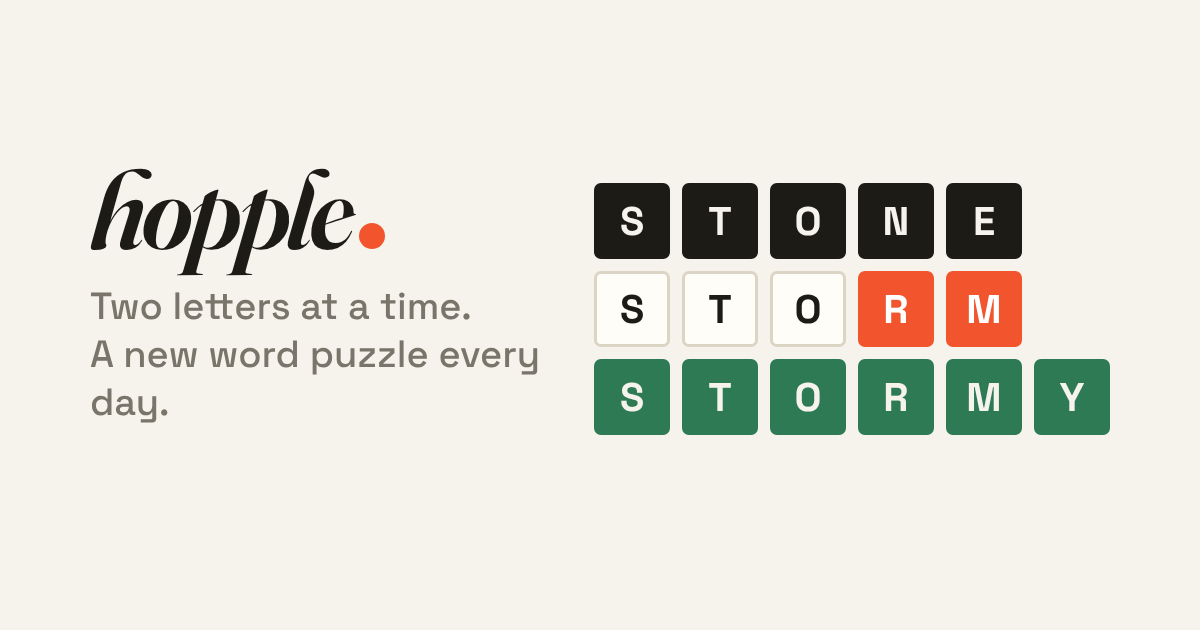
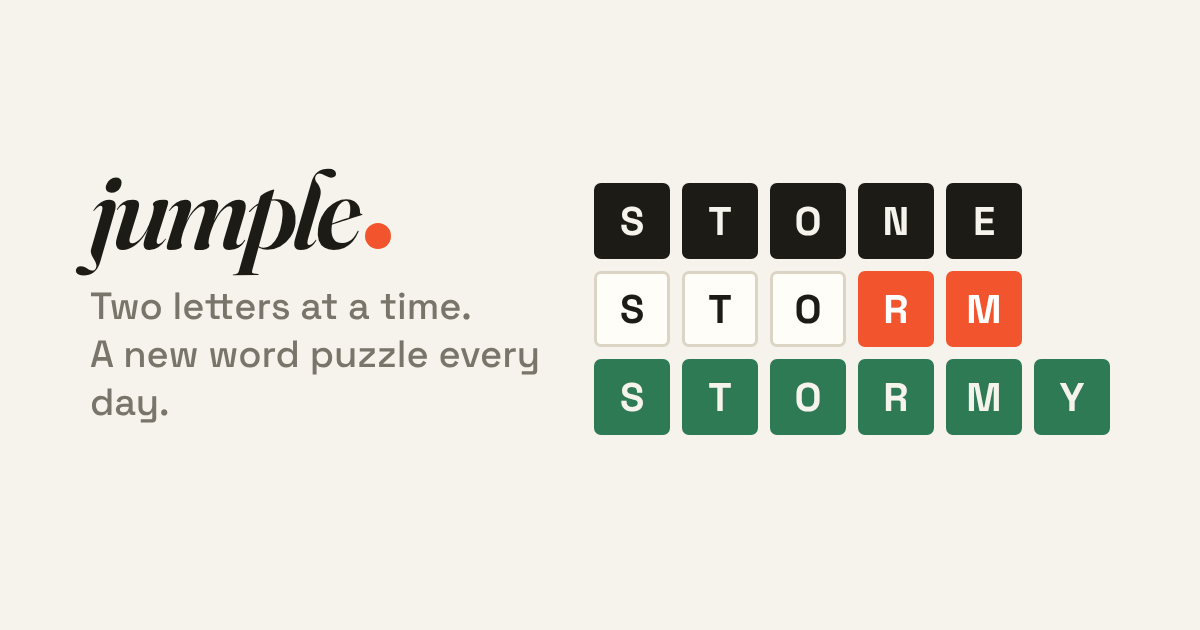
Rename to Jumple; disable double-tap zoom
Claude-Session: https://claude.ai/code/session_01796hCLEa8bQPSQBZoAHXPU

Changed region(s): [[0.0617, 0.2714, 0.3392, 0.4524]]

diff --git a/public/app.js b/public/app.js
@@ -54,7 +54,7 @@ async function init() {
   const idx = Math.max(0, dayIndex(data.epoch));
   puzzle = data.puzzles[idx % data.puzzles.length];
   number = idx + 1;
-  const saved = store.get("hopple:game:" + number, null);
+  const saved = store.get("jumple:game:" + number, null);
   path = saved?.path?.[0] === puzzle.start ? saved.path : [puzzle.start];
   done = path.at(-1) === puzzle.end;
 
@@ -67,7 +67,7 @@ async function init() {
   renderHops();
   renderInput();
   if (done) finish(false);
-  else if (!store.get("hopple:seen-help", false)) { openSheet("help"); store.set("hopple:seen-help", true); }
+  else if (!store.get("jumple:seen-help", false)) { openSheet("help"); store.set("jumple:seen-help", true); }
 }
 
 /* ---------- rendering ---------- */
@@ -227,17 +227,17 @@ document.querySelectorAll("dialog").forEach((d) => {
 
 /* ---------- results, stats, sharing ---------- */
 function save() {
-  store.set("hopple:game:" + number, { path });
+  store.set("jumple:game:" + number, { path });
   if (path.at(-1) === puzzle.end) {
-    const h = store.get("hopple:history", {});
-    if (!h[number]) { h[number] = { hops: path.length - 1, par: puzzle.par }; store.set("hopple:history", h); }
+    const h = store.get("jumple:history", {});
+    if (!h[number]) { h[number] = { hops: path.length - 1, par: puzzle.par }; store.set("jumple:history", h); }
   }
 }
 
 function finish(fresh) {
   const hops = path.length - 1;
   const [word, emoji] = verdicts(hops - puzzle.par);
-  $("r-kicker").textContent = `Hopple No. ${number}`;
+  $("r-kicker").textContent = `Jumple No. ${number}`;
   $("r-verdict").textContent = `${word} ${emoji}`;
   $("r-score").textContent = `${hops} hop${hops > 1 ? "s" : ""} · par ${puzzle.par}`;
   $("r-path").innerHTML = path
@@ -262,7 +262,7 @@ function shareText() {
     return "🟧".repeat(n) + "⬜".repeat(MAX_CHANGES - n);
   });
   return [
-    `Hopple No. ${number} · ${hops}/${puzzle.par} ${emoji}`,
+    `Jumple No. ${number} · ${hops}/${puzzle.par} ${emoji}`,
     `${puzzle.start.toUpperCase()} → ${puzzle.end.toUpperCase()}`,
     ...rows,
     location.origin, // keep https:// so messaging apps turn it into a link
@@ -286,8 +286,8 @@ async function makeCard() {
   const [word, emoji] = verdicts(hops - puzzle.par);
   g.textBaseline = "alphabetic";
   g.fillStyle = v("--ink"); g.font = `italic 600 60px ${serif}`;
-  g.fillText("hopple", 80, 130);
-  const bw = g.measureText("hopple").width;
+  g.fillText("jumple", 80, 130);
+  const bw = g.measureText("jumple").width;
   g.fillStyle = v("--accent"); g.beginPath(); g.arc(80 + bw + 14, 122, 8, 0, 7); g.fill();
   g.fillStyle = v("--muted"); g.font = `600 34px ${font}`; g.textAlign = "right";
   g.fillText(`No. ${number}`, S - 80, 128); g.textAlign = "left";
@@ -321,7 +321,7 @@ async function makeCard() {
   g.fillStyle = v("--muted"); g.font = `600 32px ${font}`; g.textAlign = "center";
   g.fillText(location.host, S / 2, S - 70);
   const blob = await new Promise((r) => c.toBlob(r, "image/png"));
-  return new File([blob], `hopple-${number}.png`, { type: "image/png" });
+  return new File([blob], `jumple-${number}.png`, { type: "image/png" });
 }
 let cardFile = null;
 
@@ -357,7 +357,7 @@ function tickCountdown() {
 setInterval(() => { if ($("result").open) tickCountdown(); }, 1000);
 
 function renderStats() {
-  const h = store.get("hopple:history", {});
+  const h = store.get("jumple:history", {});
   const nums = Object.keys(h).map(Number).sort((a, b) => a - b);
   let streak = 0, best = 0, run = 0, prev = null;
   for (const n of nums) { run = prev !== null && n === prev + 1 ? run + 1 : 1; best = Math.max(best, run); prev = n; }

diff --git a/public/index.html b/public/index.html
@@ -3,14 +3,14 @@
 <head>
   <meta charset="utf-8" />
   <meta name="viewport" content="width=device-width, initial-scale=1, viewport-fit=cover, interactive-widget=resizes-content" />
-  <title>Hopple — a daily word puzzle</title>
+  <title>Jumple — a daily word puzzle</title>
   <meta name="description" content="Hop from one word to another, changing up to two letters at a time. A new puzzle every day." />
   <meta name="theme-color" content="#f6f3ec" media="(prefers-color-scheme: light)" />
   <meta name="theme-color" content="#16150f" media="(prefers-color-scheme: dark)" />
-  <meta property="og:title" content="Hopple" />
+  <meta property="og:title" content="Jumple" />
   <meta property="og:description" content="Hop from one word to another, two letters at a time. New puzzle daily." />
   <meta property="og:type" content="website" />
-  <meta property="og:image" content="https://playhopple.vercel.app/og.png" />
+  <meta property="og:image" content="https://jumple.vercel.app/og.png" />
   <meta property="og:image:width" content="1200" />
   <meta property="og:image:height" content="630" />
   <meta name="twitter:card" content="summary_large_image" />
@@ -29,7 +29,7 @@
         <svg viewBox="0 0 24 24" aria-hidden="true"><circle cx="12" cy="12" r="9.25"/><path d="M9.6 9.4a2.5 2.5 0 1 1 3.4 2.33c-.6.24-1 .8-1 1.45v.57"/><circle cx="12" cy="16.9" r=".4" fill="currentColor"/></svg>
       </button>
       <div class="brand">
-        <h1>hopple</h1>
+        <h1>jumple</h1>
         <p id="meta">&nbsp;</p>
       </div>
       <button class="icon-btn" id="stats-btn" aria-label="Statistics">

diff --git a/README.md b/README.md
@@ -1,8 +1,8 @@
-# Hopple
+# Jumple
 
 A daily word puzzle: get from the start word to the goal word, changing up to **2 letters** per hop (swap, add or remove). Every hop must be a real word. Par is one more than the shortest possible route.
 
-Live at https://playhopple.vercel.app
+Live at https://jumple.vercel.app
 
 ## Layout
 
